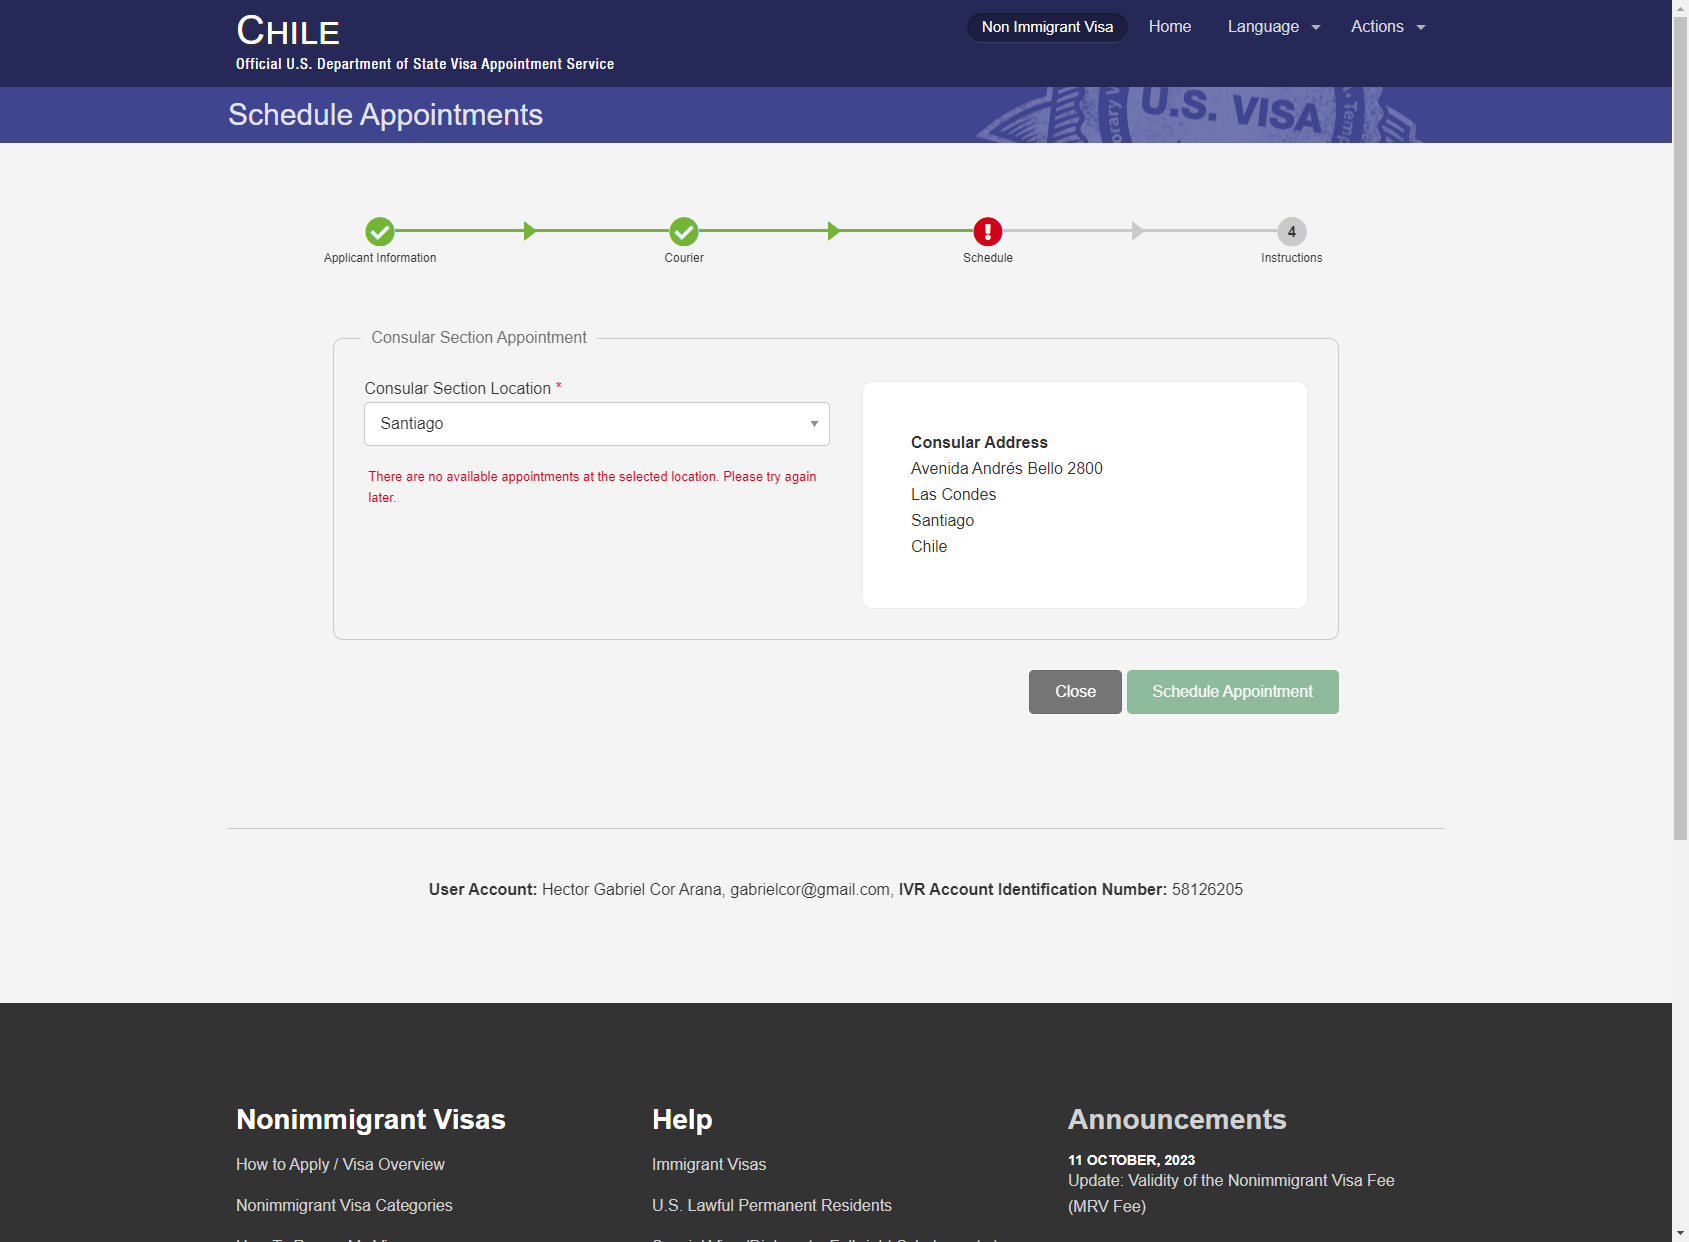
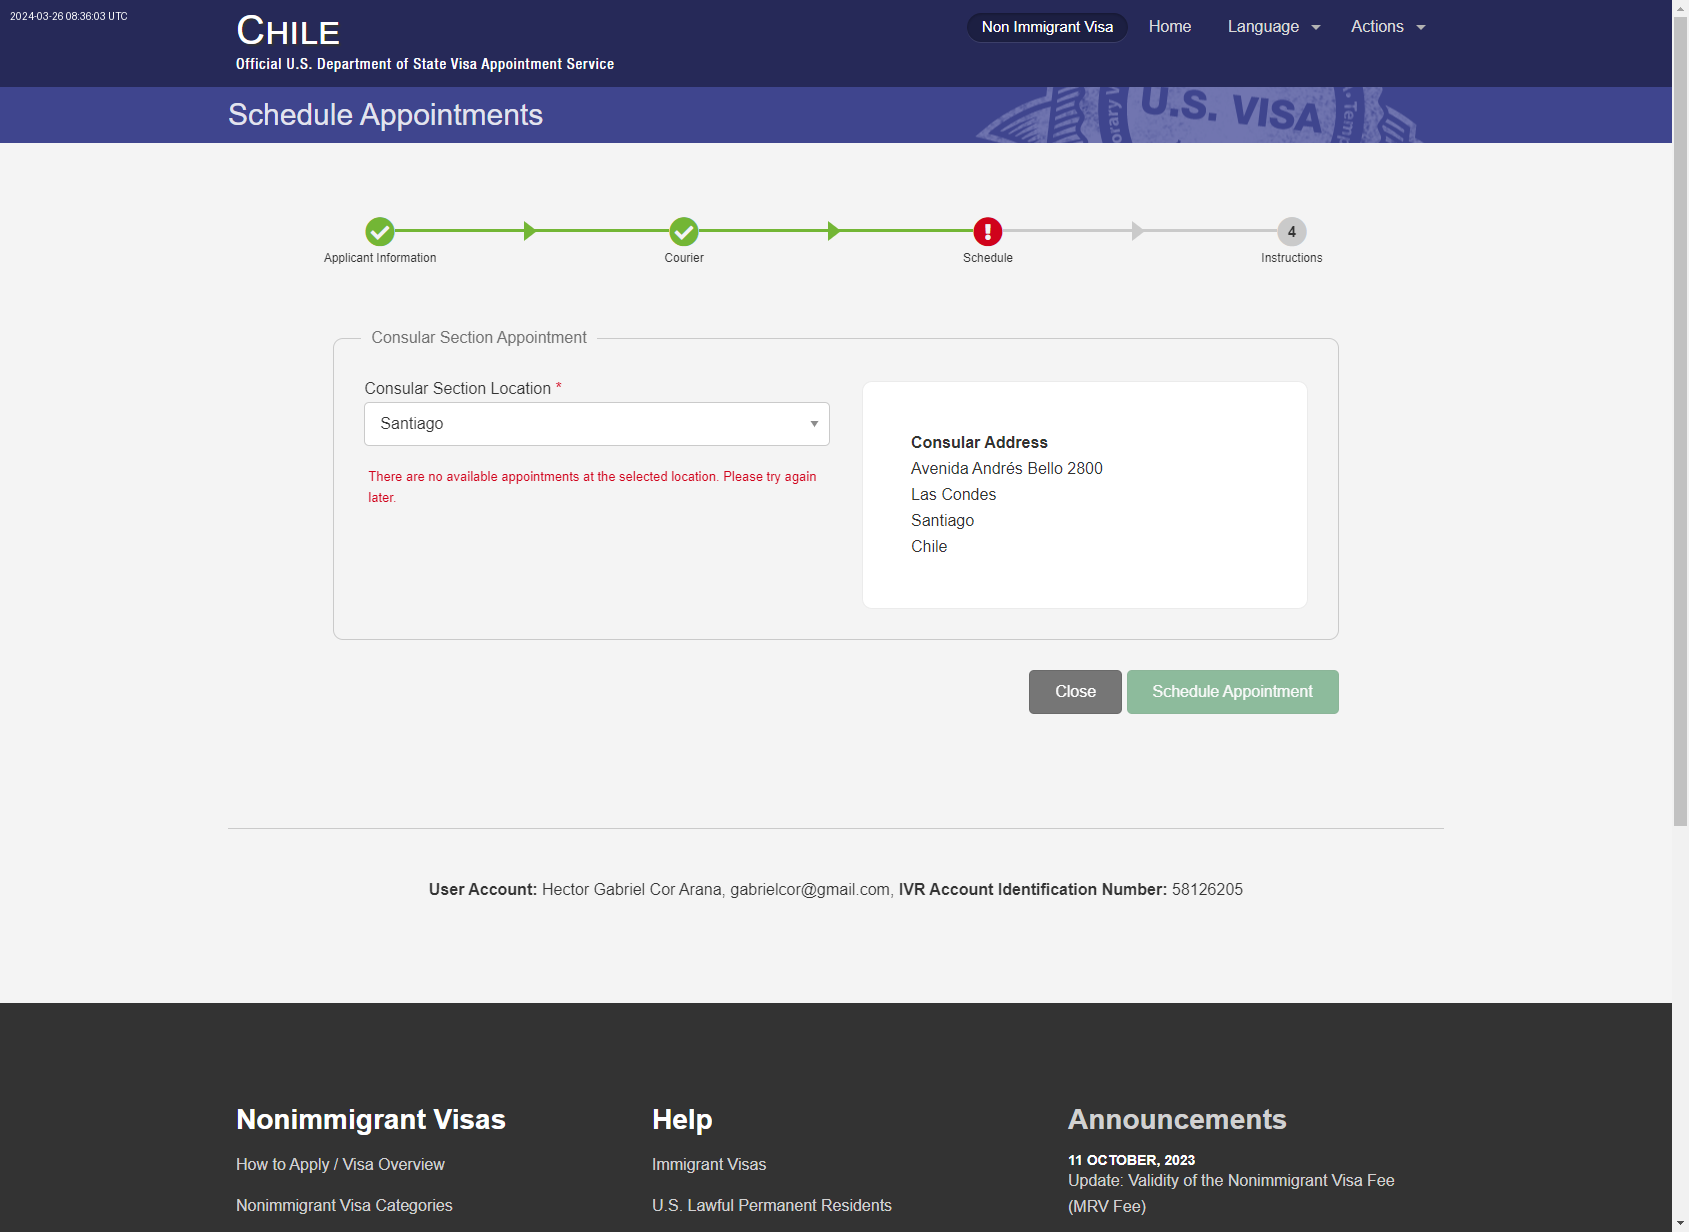
add timestamp to screenshot

diff --git a/CheckOne.py b/CheckOne.py
@@ -9,6 +9,9 @@ from email.mime.text import MIMEText
 from email.mime.base import MIMEBase
 from email import encoders
 import time
+from datetime import datetime
+from PIL import Image, ImageDraw, ImageFont
+import time
 # Set the path to the chromedriver executable
 # chromedriver_path = '/path/to/chromedriver'
 
@@ -24,6 +27,30 @@ try:
         checkCount = int(file.read())
 except:
     checkCount = 0
+
+
+def add_timestamp():
+
+    # Open the screenshot
+    img = Image.open(screenshot_path)
+    # Prepare to draw on the image
+    draw = ImageDraw.Draw(img)
+
+    # Define the timestamp
+    timestamp = datetime.now().strftime("%Y-%m-%d %H:%M:%S UTC")
+#    font_path = "/usr/share/fonts/truetype/dejavu/DejaVuSans-Bold.ttf"  # Adjust path as needed
+#    font = ImageFont.truetype(font_path, 20)
+
+    # Define the text color and position
+    text_color = (255, 255, 255)  # White
+    text_position = (10, 10)  # Top-left corner
+
+    # Draw the timestamp on the image
+    draw.text(text_position, timestamp, fill=text_color)
+
+    # Save the modified image
+    img.save(screenshot_path)
+
 
 def send_email(checkCount, sndToTemp = False):
 
@@ -127,7 +154,7 @@ def check_website():
 
     # Take a screenshot
     driver.save_screenshot(screenshot_path)
-
+    add_timestamp()
     # Now you have the HTML of the section in 'consulate_appointment_fields_html'
     # You can print it or parse it as needed
     search_string = "There are no available appointments at the selected location"
